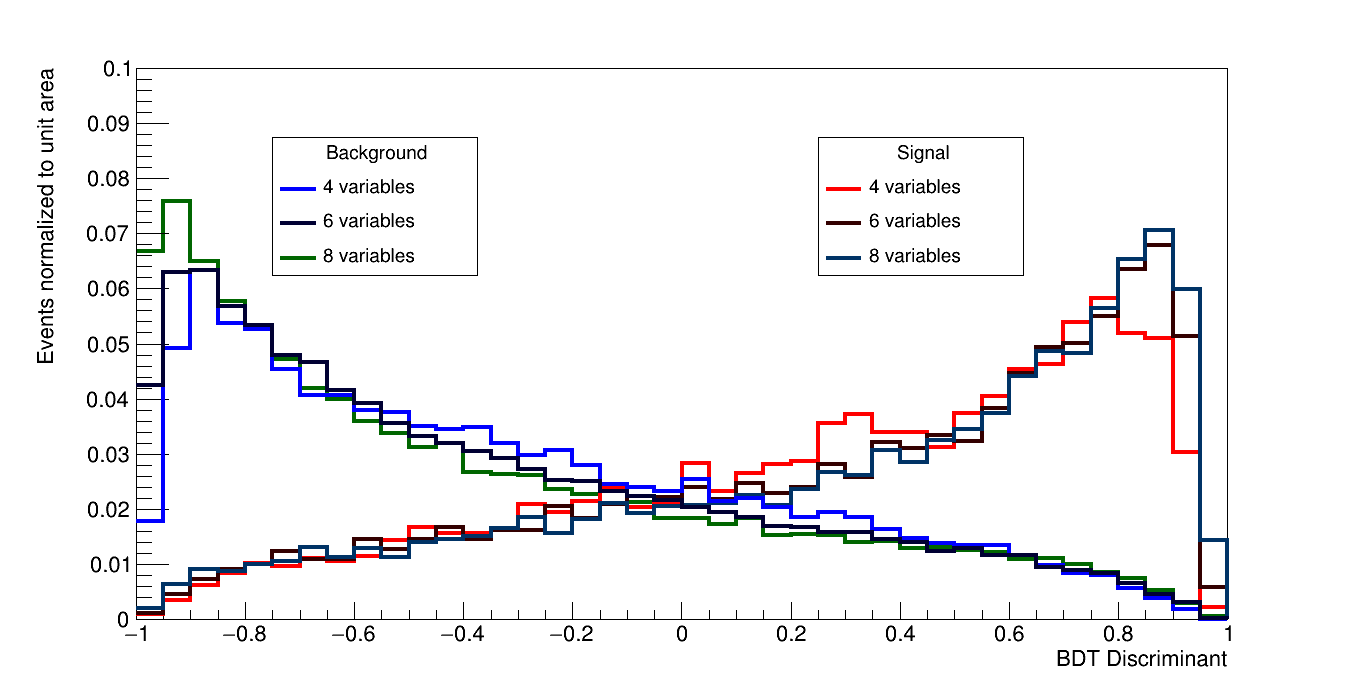
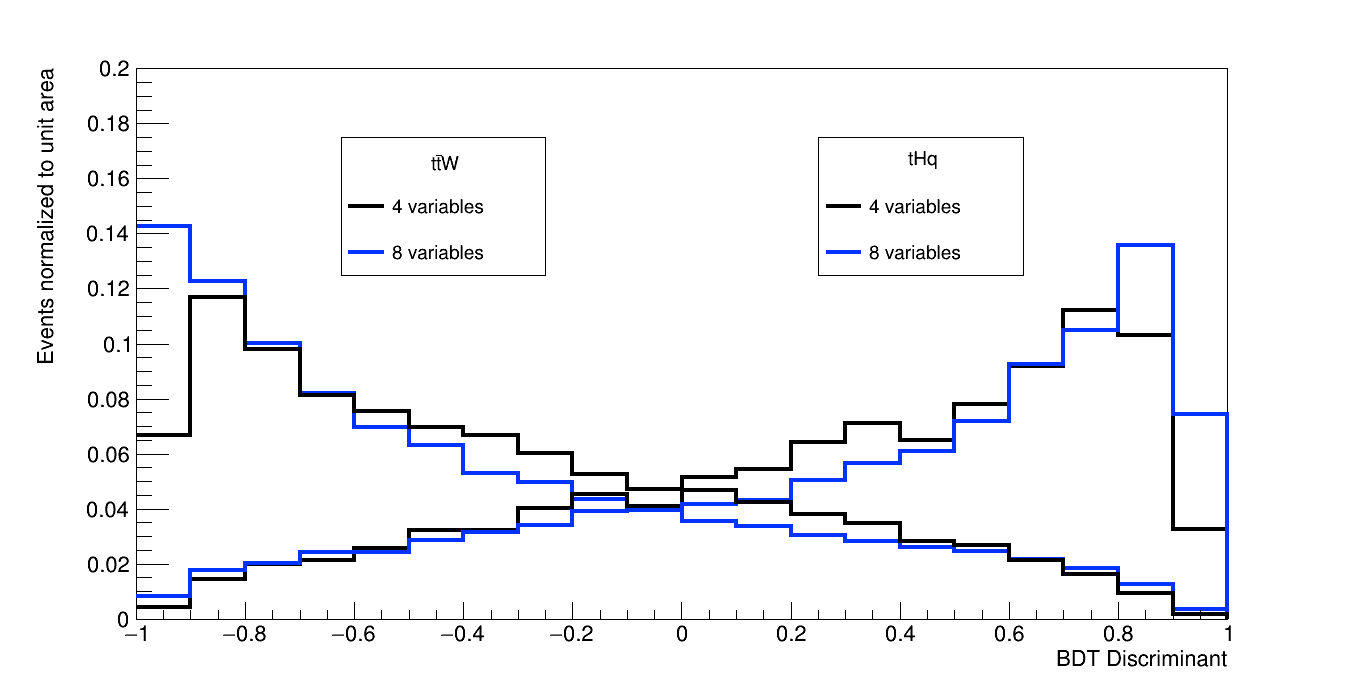
n

diff --git a/plotting/bdt.C b/plotting/bdt.C
@@ -20,27 +20,27 @@ TH2F *cs =(TH2F*)f->Get("dataset/CorrelationMatrixS");
 TH2F *cb =(TH2F*)f->Get("dataset/CorrelationMatrixB");
 
 
-TH1F H1("H1","",40,-1,1); //signal
-TH1F H2("H2","",40,-1,1); //background
+TH1F H1("H1","",20,-1,1); //signal
+TH1F H2("H2","",20,-1,1); //background
 
-TH1F H3("H3","",40,-1,1); //signal
-TH1F H4("H4","",40,-1,1); //background
+TH1F H3("H3","",20,-1,1); //signal
+TH1F H4("H4","",20,-1,1); //background
 
-TH1F H5("H5","",40,-1,1); //signal
-TH1F H6("H6","",40,-1,1); //background
+TH1F H5("H5","",20,-1,1); //signal
+TH1F H6("H6","",20,-1,1); //background
 
-H1.SetLineColor(kRed);
-H2.SetLineColor(kBlue);
-H3.SetLineColor(kRed+4);
-H4.SetLineColor(kBlue+4);
-H5.SetLineColor(kAzure+3);
-H6.SetLineColor(kGreen+3);
-  H1.SetLineWidth(6);
-  H2.SetLineWidth(6);
-  H3.SetLineWidth(6);
-  H4.SetLineWidth(6);
-  H5.SetLineWidth(6);
-  H6.SetLineWidth(6);
+H1.SetLineColor(kBlack);
+H2.SetLineColor(kBlack);
+H3.SetLineColor(kRed);
+H4.SetLineColor(kRed);
+H5.SetLineColor(kAzure);
+H6.SetLineColor(kAzure);
+  H1.SetLineWidth(4);
+  H2.SetLineWidth(4);
+  H3.SetLineWidth(4);
+  H4.SetLineWidth(4);
+  H5.SetLineWidth(4);
+  H6.SetLineWidth(4);
 
 
 t->Draw("BDTG>>H1","classID==0");
@@ -72,35 +72,35 @@ H6.Scale(1.0/H6.Integral());
 TCanvas *C = new TCanvas("C","C",100,100,1200,900);
 H6.Draw("hist");
 H1.Draw("histsame");
-H3.Draw("histsame");
+//H3.Draw("histsame");
 H5.Draw("histsame");
 H2.Draw("histsame");
-H4.Draw("histsame");
+//H4.Draw("histsame");
 
 H6.SetStats(0);
 H6.SetXTitle("BDT Discriminant");
 H6.SetYTitle("Events normalized to unit area");
-  H6.SetAxisRange(0,0.1,"Y");
+  H6.SetAxisRange(0,0.2,"Y");
 //H2.SetTitle("BDT Training 2 variables");
-auto legend = new TLegend(0.7,0.6,0.8,0.8);
+auto legend = new TLegend(0.6,0.6,0.75,0.8);
 legend->AddEntry("H1","4 variables","l");
-legend->AddEntry("H3","6 variables","l");
+//legend->AddEntry("H3","6 variables","l");
 legend->AddEntry("H5","8 variables ","l");
-legend->SetHeader("Signal","C");
+legend->SetHeader("tHq","C");
 
 legend->SetBorderSize(1);
-legend->SetTextSize(.02);
+legend->SetTextSize(.03);
 legend->SetEntrySeparation(0.5);
 legend->Draw();
 
-auto legend2 = new TLegend(0.55,0.6,0.65,0.8);
+auto legend2 = new TLegend(0.25,0.6,0.4,0.8);
 legend2->AddEntry("H2","4 variables ","l");
-legend2->AddEntry("H4","6 variables","l");
+//legend2->AddEntry("H4","6 variables","l");
 legend2->AddEntry("H6","8 variables","l");
-legend2->SetHeader("Background","C");
+legend2->SetHeader("t#bar{t}W","C");
 
 legend2->SetBorderSize(1);
-legend2->SetTextSize(.02);
+legend2->SetTextSize(.03);
 legend2->SetEntrySeparation(0.5);
 legend2->Draw();
 
